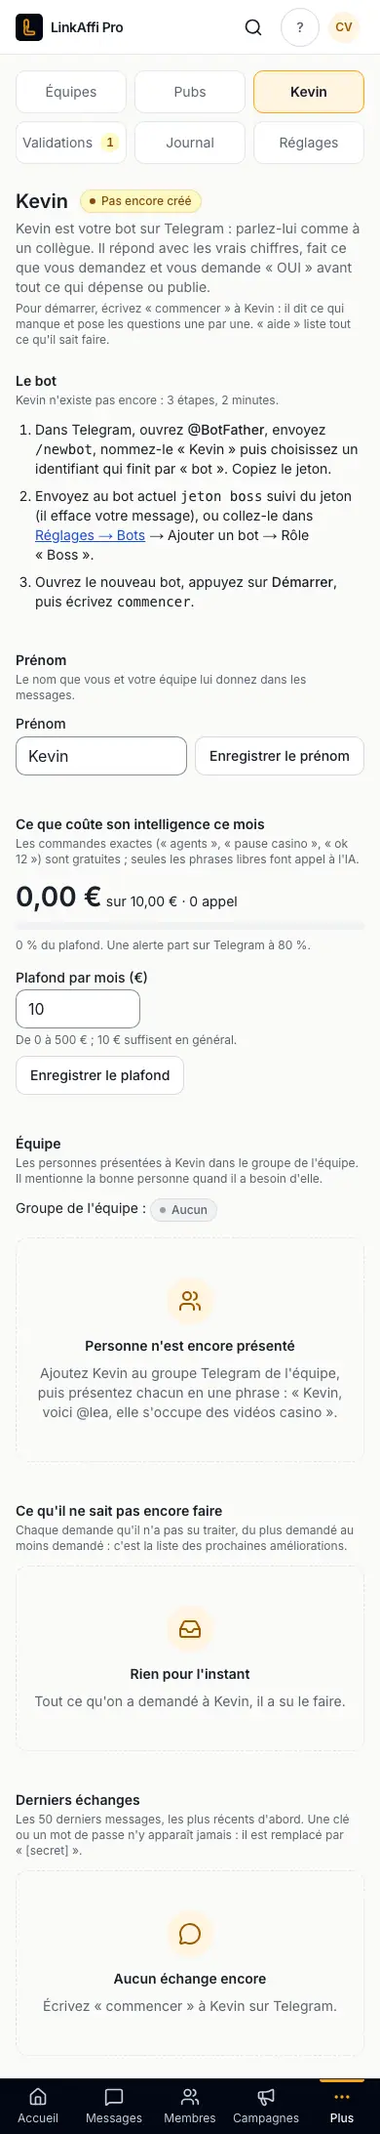
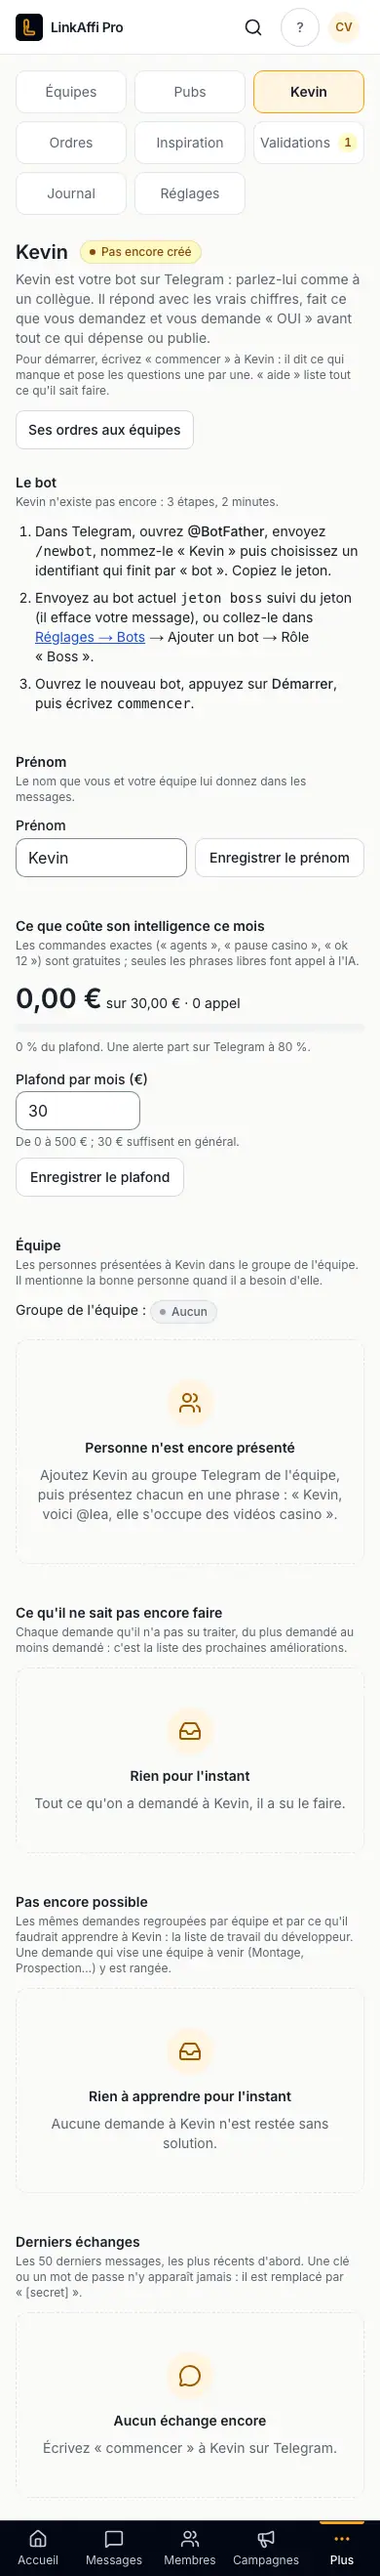
phase 33 : captures (Ordres, Kevin)

diff --git a/docs/REFONTE-CAPTURES.md b/docs/REFONTE-CAPTURES.md
@@ -4,7 +4,7 @@ Index généré par `pnpm captures` (ne pas modifier à la main) : une ligne par
 largeur, en webp. Procédure complète (base de démonstration locale, serveur de développement, contrôle axe) :
 voir l'en-tête de `apps/web/scripts/captures.ts`.
 
-Dernière mise à jour : 2026-10-25 03:24 UTC.
+Dernière mise à jour : 2026-10-25 07:16 UTC.
 
 | Page | Adresse | 1440 px | 390 px |
 | --- | --- | --- | --- |
@@ -91,6 +91,7 @@ Dernière mise à jour : 2026-10-25 03:24 UTC.
 | Équipe Rencontres | `/agents/dating` | <a href="captures/agents-dating-1440.webp"><img src="captures/agents-dating-1440.webp" alt="Équipe Rencontres, 1440 px" width="360"></a> | <a href="captures/agents-dating-390.webp"><img src="captures/agents-dating-390.webp" alt="Équipe Rencontres, 390 px" width="120"></a> |
 | Inspiration | `/agents/inspiration` | <a href="captures/agents-inspiration-1440.webp"><img src="captures/agents-inspiration-1440.webp" alt="Inspiration, 1440 px" width="360"></a> | <a href="captures/agents-inspiration-390.webp"><img src="captures/agents-inspiration-390.webp" alt="Inspiration, 390 px" width="120"></a> |
 | Journal des agents | `/agents/journal` | <a href="captures/agents-journal-1440.webp"><img src="captures/agents-journal-1440.webp" alt="Journal des agents, 1440 px" width="360"></a> | <a href="captures/agents-journal-390.webp"><img src="captures/agents-journal-390.webp" alt="Journal des agents, 390 px" width="120"></a> |
+| Ordres | `/agents/orders` | <a href="captures/agents-orders-1440.webp"><img src="captures/agents-orders-1440.webp" alt="Ordres, 1440 px" width="360"></a> | <a href="captures/agents-orders-390.webp"><img src="captures/agents-orders-390.webp" alt="Ordres, 390 px" width="120"></a> |
 | Réglages des agents | `/agents/settings` | <a href="captures/agents-settings-1440.webp"><img src="captures/agents-settings-1440.webp" alt="Réglages des agents, 1440 px" width="360"></a> | <a href="captures/agents-settings-390.webp"><img src="captures/agents-settings-390.webp" alt="Réglages des agents, 390 px" width="120"></a> |
 | Équipe Paris sportifs | `/agents/sports` : déborde à droite à 390 px (contenu de 454 px de large) | <a href="captures/agents-sports-1440.webp"><img src="captures/agents-sports-1440.webp" alt="Équipe Paris sportifs, 1440 px" width="360"></a> | <a href="captures/agents-sports-390.webp"><img src="captures/agents-sports-390.webp" alt="Équipe Paris sportifs, 390 px" width="120"></a> |
 | Validations | `/agents/validations` | <a href="captures/agents-validations-1440.webp"><img src="captures/agents-validations-1440.webp" alt="Validations, 1440 px" width="360"></a> | <a href="captures/agents-validations-390.webp"><img src="captures/agents-validations-390.webp" alt="Validations, 390 px" width="120"></a> |
